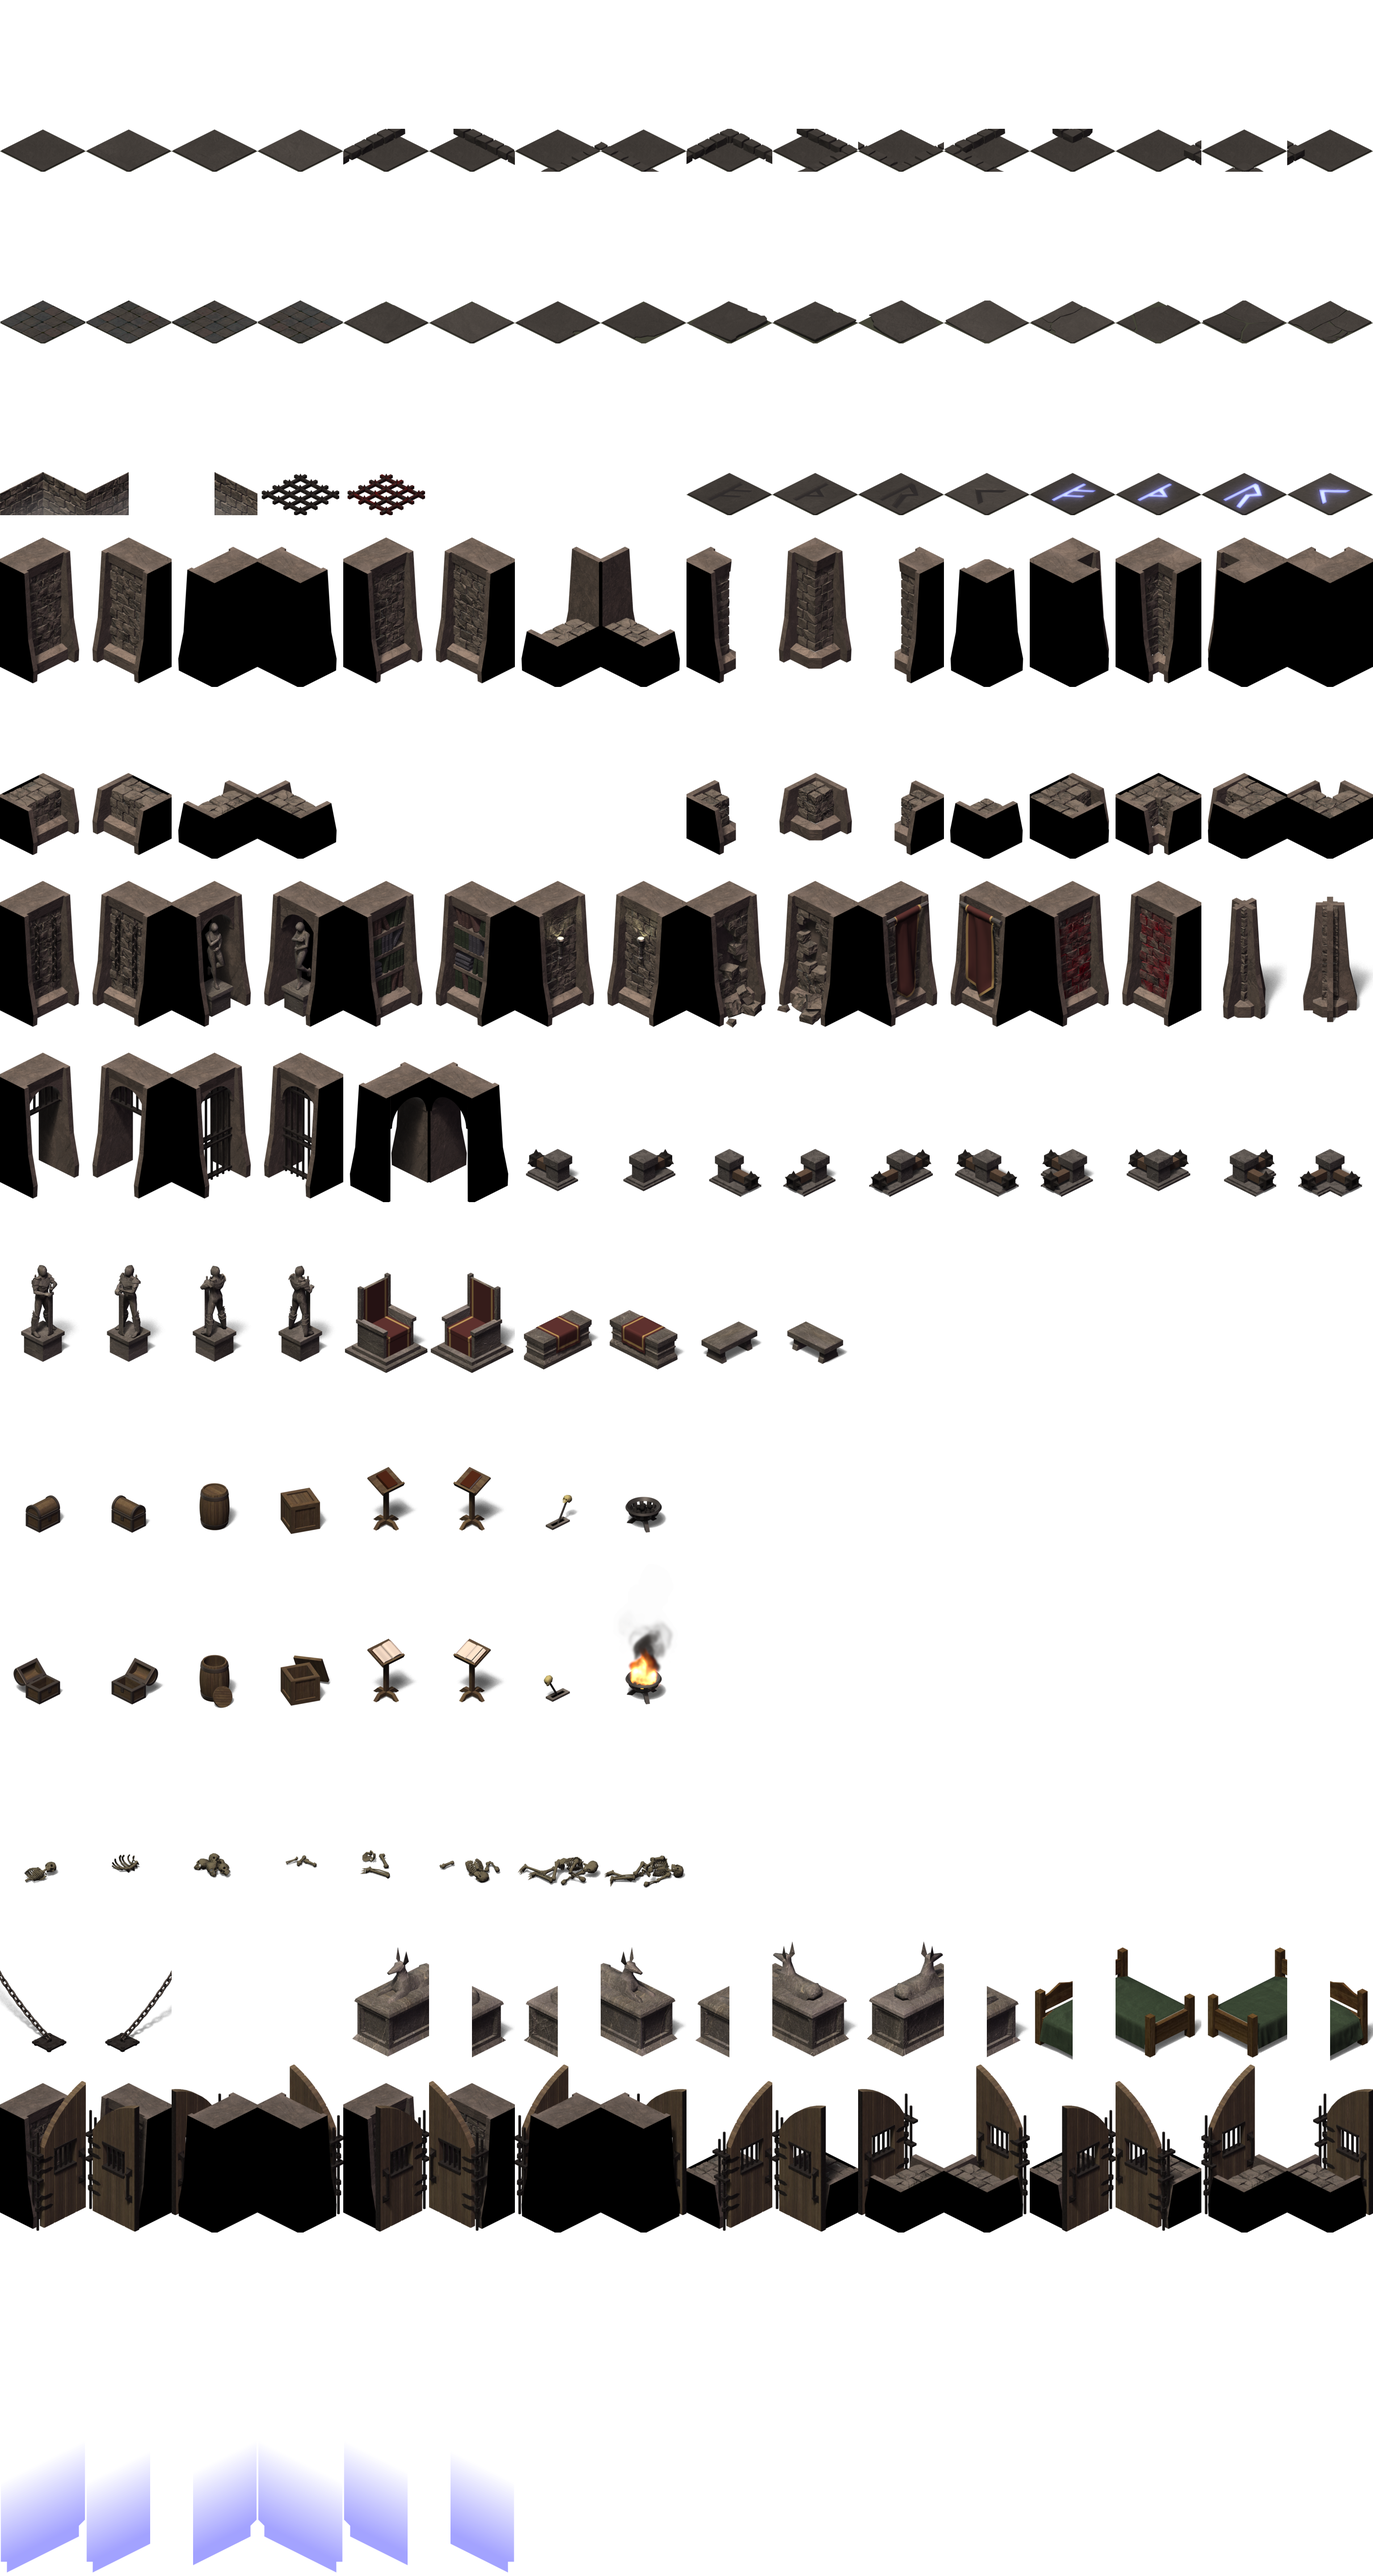
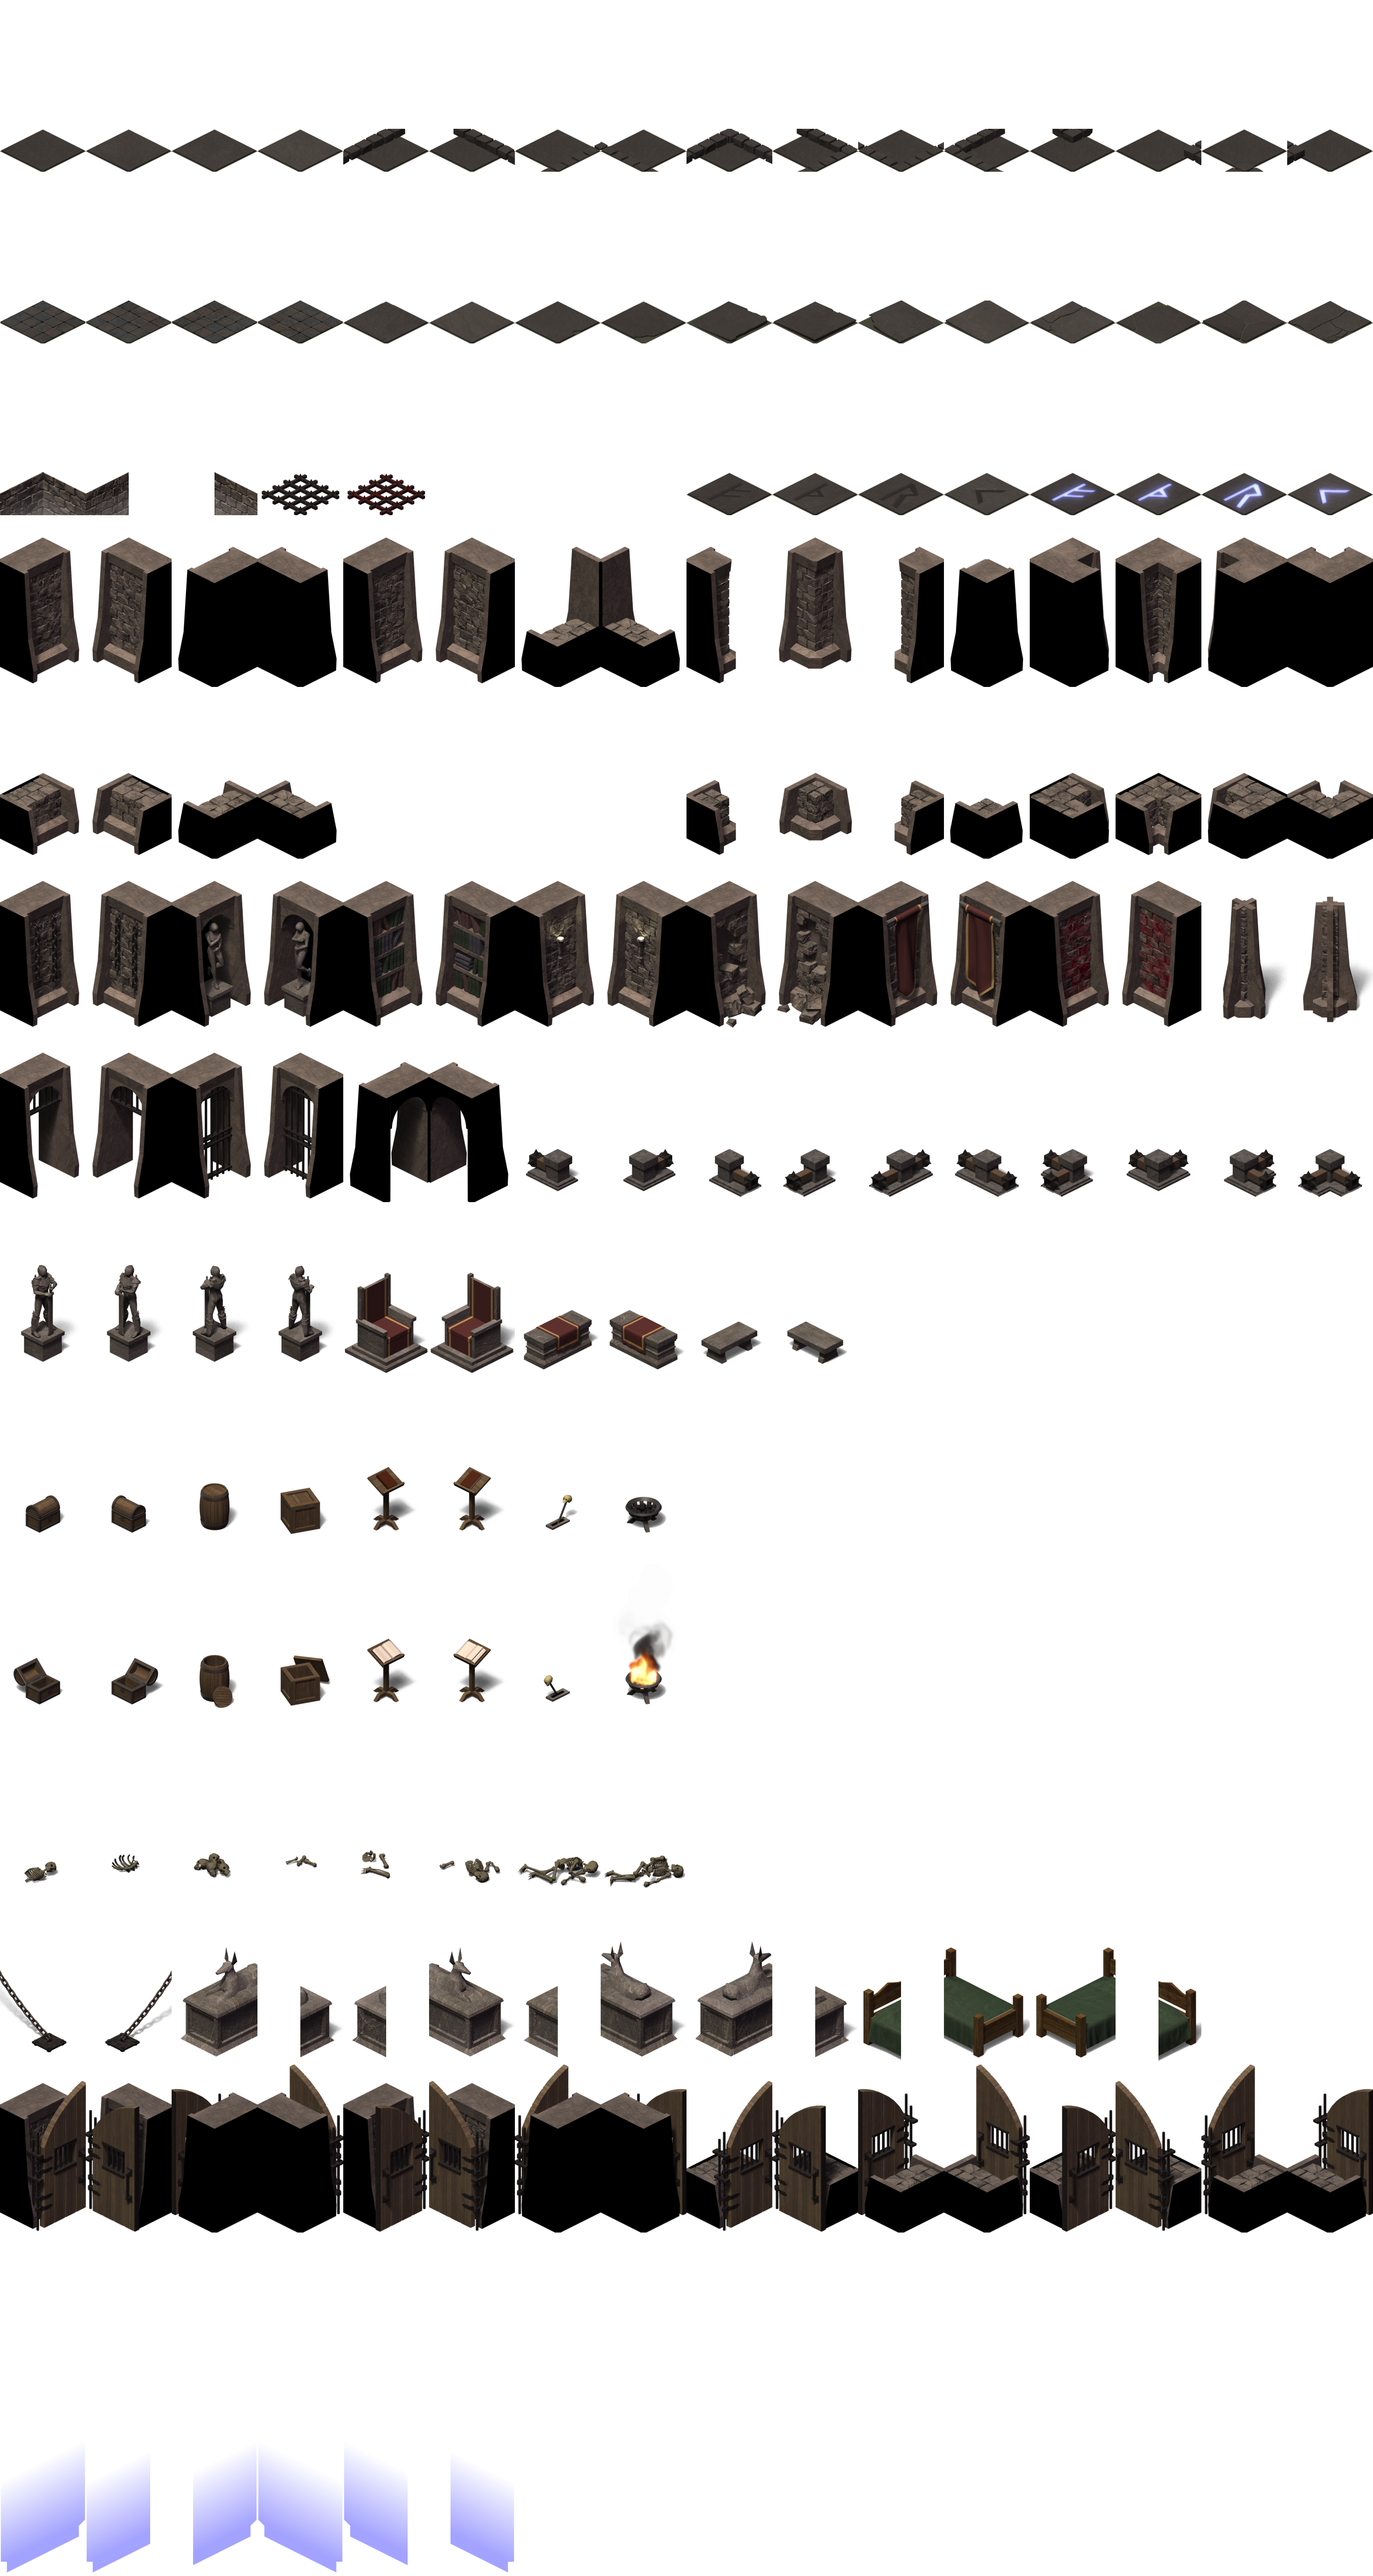
Fix tomb and bed in dungeon Tiled sheet

diff --git a/art_src_hd/tilesets/dungeon/createTilesheets.py b/art_src_hd/tilesets/dungeon/createTilesheets.py
@@ -364,7 +364,7 @@ for i in range(0, len(tile_filenames)):
 
 
 # tomb and bed
-target_x = tile_w * 4
+target_x = tile_w * 2
 target_y = tile_h * 11
 tile_id = (tileset_cols * 12) + 2
 
